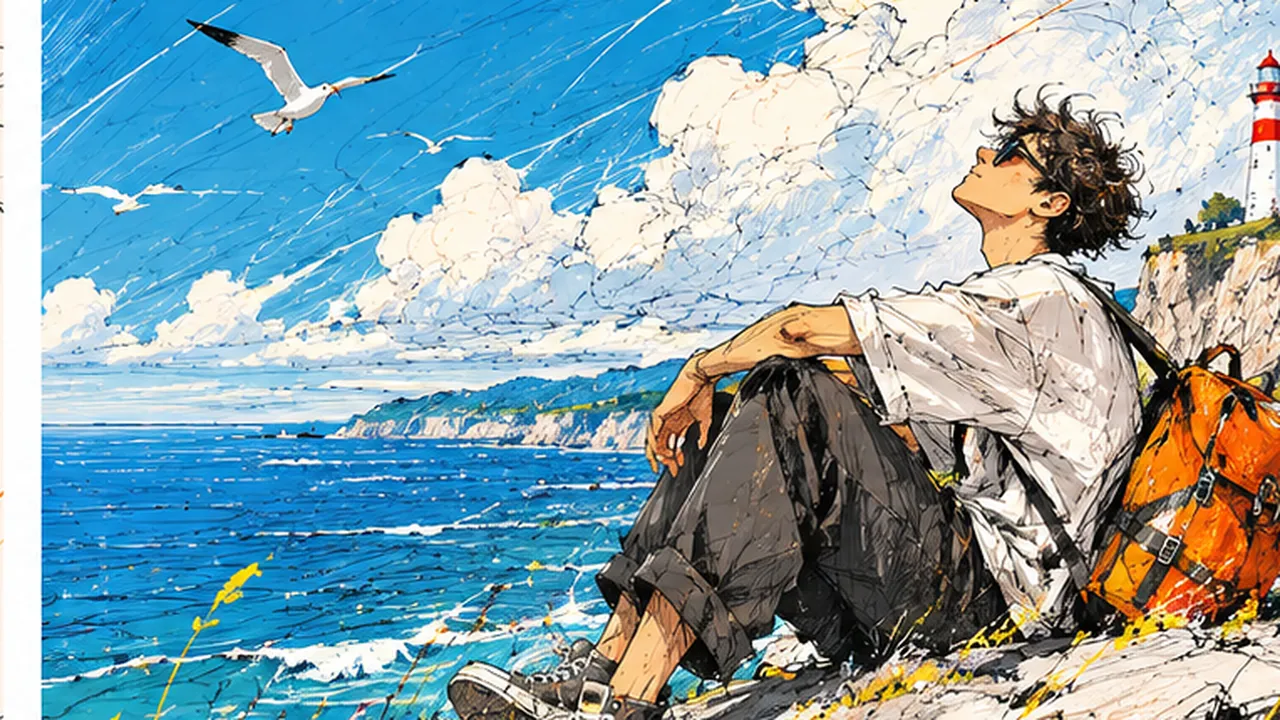
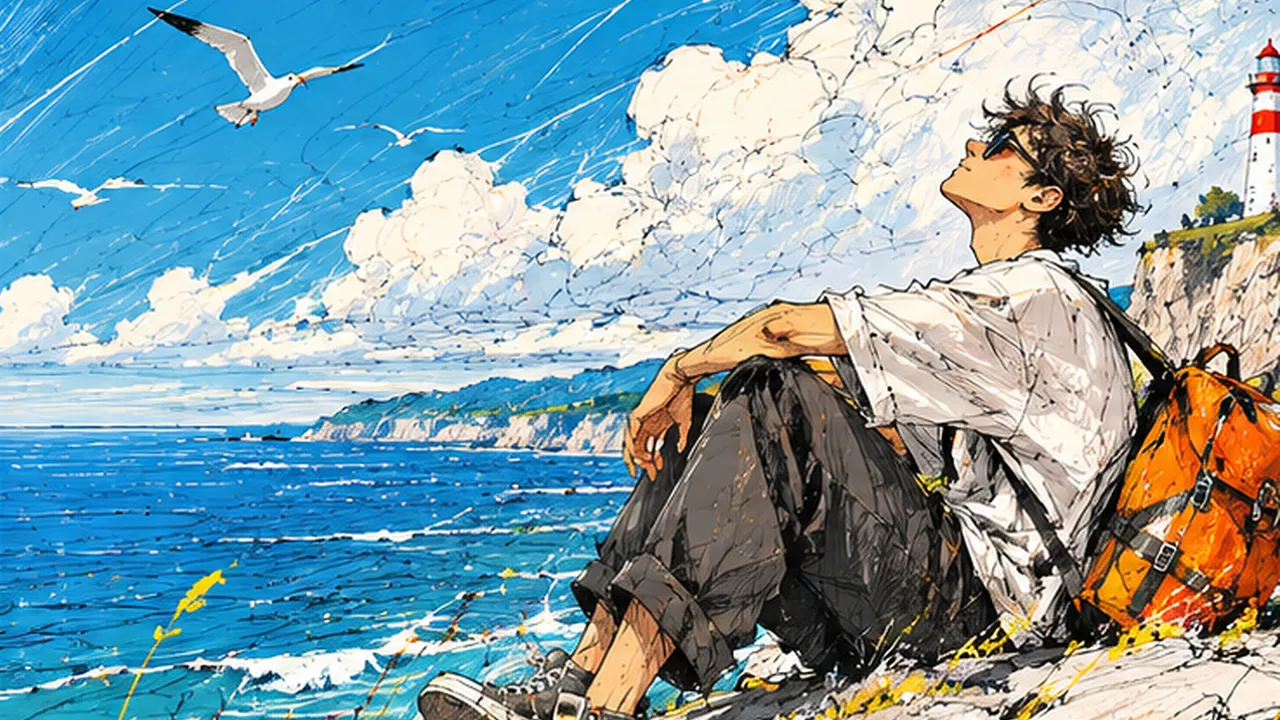
fix(media): remove the left white strip from seaside-daydream-boy
The uploaded original carried a ~130px pure-white vertical band on its
left edge (byte-verified: columns 0-120 at lightness ~254, then the
artwork starts). Fixed by cropping 132px from the left and 37px vertically
(balanced) to maintain 16:9 - gulls, boy, backpack and lighthouse intact,
no stretching.

- published asset re-encoded (3708x2086 JPEG, q90 mozjpeg); registry
  bytes/sha256/dims updated; IMAGE_DIMENSIONS follows
- derivatives (-640/-960/-1280/-1920 webp) regenerated from the fixed file
- archived PNG original preserved untouched as the pre-fix backup
- before/after comparison sheet: docs/media-review/seaside-white-strip-before-after.png
- edge rescan on the published file: 0px white runs on all four edges

diff --git a/apps/web/lib/wallpapers.ts b/apps/web/lib/wallpapers.ts
@@ -207,7 +207,7 @@ const IMAGE_DIMENSIONS: Record<string, { width: number; height: number }> = {
   "color-burst-puppy": { width: 928, height: 1232 },
   "sunshine-puppy-portrait": { width: 928, height: 1232 },
   "sunny-headphones-smile": { width: 1440, height: 2560 },
-  "seaside-daydream-boy": { width: 3840, height: 2160 },
+  "seaside-daydream-boy": { width: 3708, height: 2086 },
   "adventure-goggles-cat": { width: 2048, height: 2732 },
 };
 

diff --git a/apps/web/lib/image-variants.generated.ts b/apps/web/lib/image-variants.generated.ts
@@ -465,7 +465,7 @@ export const IMAGE_VARIANTS: Record<string, ImageVariantEntry> = {
       1280,
       1920
     ],
-    "natural": 3840
+    "natural": 3708
   },
   "/images/wallpapers/skydeck-future-city.jpg": {
     "widths": [
